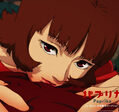
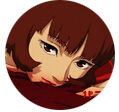
ico change
change the ico

diff --git a/about.md b/about.md
@@ -7,7 +7,7 @@ header-img: "img/green.jpg"
 
 
 <center>
-    <p><img src="http://img3.doubanio.com/view/photo/photo/public/p648061638.jpg"></p>
+    <p><img src="http://img3.doubanio.com/view/photo/photo/public/p2306272158.jpg"></p>
 </center>
 
 我是小葵要革命，心怀蒹葭与明月的工科女。

diff --git a/milestone.md b/milestone.md
@@ -7,7 +7,7 @@ header-img: "img/zhihu.jpg"
 
 
 <center>
-    <p><img src="http://img3.doubanio.com/view/photo/photo/public/p648061638.jpg"></p>
+    <p><img src="http://img3.doubanio.com/view/photo/photo/public/p2306272158.jpg"></p>
 </center>
 
 
